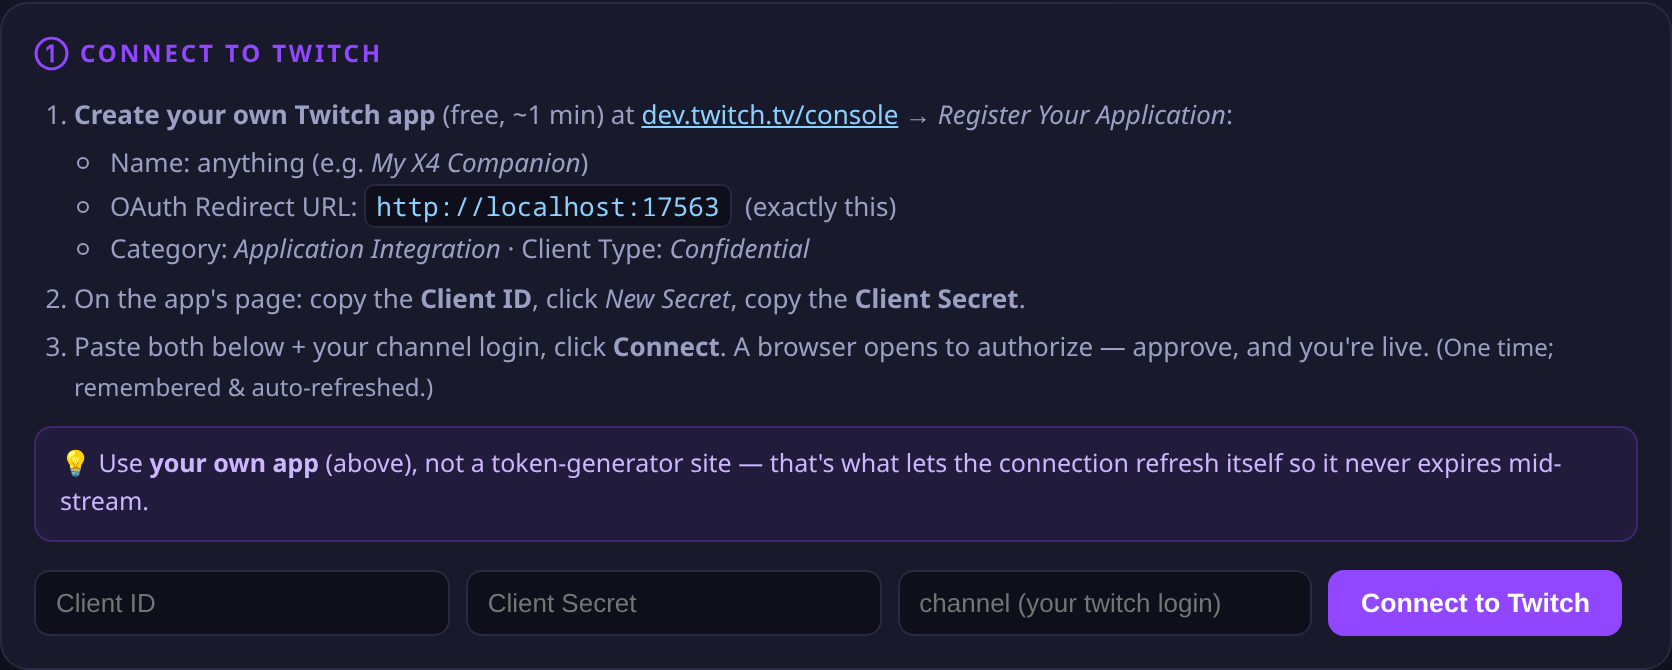
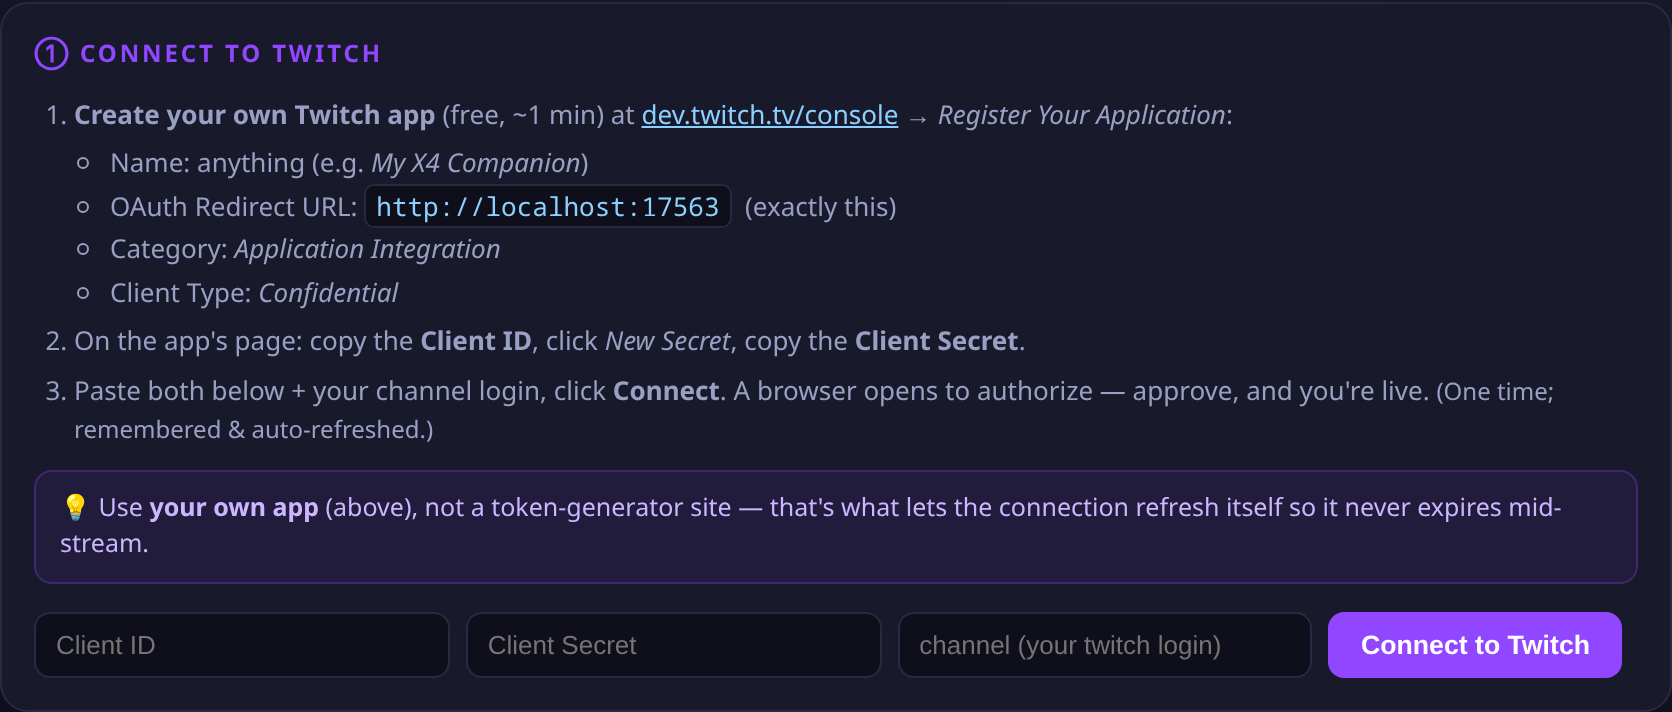
Setup panel: Category/Client Type on separate lines; sanitize screenshots
Splits the two Twitch-console fields onto separate lines (they're separate in
the console). Also fixes a leak: make_screenshots ran the twitch source, which
loaded the real ~/.config setup.json and rendered the panel prefilled with a
real client-id + channel into the committed image. Now setup_store honors
X4_TWITCH_SETUP, and the screenshot tool points it at an empty isolated file, so
images always show a clean, empty panel.

diff --git a/bridge/tools/make_screenshots.py b/bridge/tools/make_screenshots.py
@@ -9,6 +9,7 @@ and no real credentials, so the images contain no personal data.
 import os
 import subprocess
 import sys
+import tempfile
 import time
 import urllib.request
 from pathlib import Path
@@ -30,11 +31,16 @@ def wait_up(url, tries=80):
     return False
 
 
+# Point at an empty, isolated setup file so the bridge can NEVER read the real
+# ~/.config setup.json — screenshots must show a clean, empty panel (no real
+# client-id / channel). (HOME must stay real, or pip --user packages vanish.)
+SHOT_SETUP = tempfile.mktemp(suffix="-empty-setup.json")
 proc = subprocess.Popen(
     [sys.executable, "-m", "twitch_bridge", "--source", "twitch", "--dashboard-port", str(PORT),
-     "--socket", "/tmp/x4-twitch.sock", "--wallet","/tmp/shot_wallet.json","--no-launcher"],
+     "--socket", "/tmp/x4-twitch.sock", "--wallet", "/tmp/shot_wallet.json", "--no-launcher"],
     cwd=str(ROOT), stdin=subprocess.DEVNULL, stdout=subprocess.PIPE, stderr=subprocess.STDOUT,
-    env={**os.environ, "PYTHONPATH": ".", "TWITCH_CLIENT_ID": "", "TWITCH_CLIENT_SECRET": ""},
+    env={**os.environ, "PYTHONPATH": ".", "X4_TWITCH_SETUP": SHOT_SETUP,
+         "TWITCH_CLIENT_ID": "", "TWITCH_CLIENT_SECRET": "", "TWITCH_CHANNEL": ""},
 )
 try:
     if not wait_up(BASE + "api/status"):
@@ -58,5 +64,5 @@ finally:
         proc.wait(timeout=3)
     except Exception:
         proc.kill()
-    for f in ("/tmp/shot_wallet.json",):
-        Path(f).unlink(missing_ok=True)
+    Path("/tmp/shot_wallet.json").unlink(missing_ok=True)
+    Path(SHOT_SETUP).unlink(missing_ok=True)

diff --git a/bridge/twitch_bridge/setup_store.py b/bridge/twitch_bridge/setup_store.py
@@ -15,8 +15,13 @@ DEFAULT_PATH = Path.home() / ".config" / "x4-twitch-bridge" / "setup.json"
 FIELDS = ("client_id", "client_secret", "channel")
 
 
+def _path(path: str | os.PathLike | None) -> Path:
+    # X4_TWITCH_SETUP lets tests/screenshots point at an isolated file.
+    return Path(path or os.environ.get("X4_TWITCH_SETUP") or DEFAULT_PATH)
+
+
 def load(path: str | os.PathLike | None = None) -> dict:
-    p = Path(path or DEFAULT_PATH)
+    p = _path(path)
     if not p.exists():
         return {}
     try:
@@ -27,7 +32,7 @@ def load(path: str | os.PathLike | None = None) -> dict:
 
 
 def save(data: dict, path: str | os.PathLike | None = None) -> None:
-    p = Path(path or DEFAULT_PATH)
+    p = _path(path)
     p.parent.mkdir(parents=True, exist_ok=True)
     payload = {k: str(data.get(k, "") or "") for k in FIELDS}
     fd, tmp = tempfile.mkstemp(dir=str(p.parent), suffix=".tmp")

diff --git a/bridge/twitch_bridge/dashboard.py b/bridge/twitch_bridge/dashboard.py
@@ -91,7 +91,8 @@ PAGE = """<!doctype html>
         <ul class="sub">
           <li>Name: anything (e.g. <i>My X4 Companion</i>)</li>
           <li>OAuth Redirect URL: <code>http://localhost:17563</code> &nbsp;(exactly this)</li>
-          <li>Category: <i>Application Integration</i> · Client Type: <i>Confidential</i></li>
+          <li>Category: <i>Application Integration</i></li>
+          <li>Client Type: <i>Confidential</i></li>
         </ul></li>
       <li>On the app's page: copy the <b>Client ID</b>, click <i>New Secret</i>, copy the <b>Client Secret</b>.</li>
       <li>Paste both below + your channel login, click <b>Connect</b>. A browser opens to authorize —

diff --git a/README.md b/README.md
@@ -70,7 +70,8 @@ The companion's **① Connect to Twitch** panel walks you through it:
    **[dev.twitch.tv/console](https://dev.twitch.tv/console/apps/create)** → *Register Your Application*:
    - **Name:** anything (e.g. *My X4 Companion*)
    - **OAuth Redirect URL:** `http://localhost:17563` (exactly this)
-   - **Category:** *Application Integration* · **Client Type:** *Confidential*
+   - **Category:** *Application Integration*
+   - **Client Type:** *Confidential*
 2. On the app's page, copy the **Client ID**, click **New Secret**, copy the **Client Secret**.
 3. Paste both + your channel login into the panel and click **Connect**. Your browser opens to
    authorize — approve, and you're live (one time; remembered & auto-refreshed).
